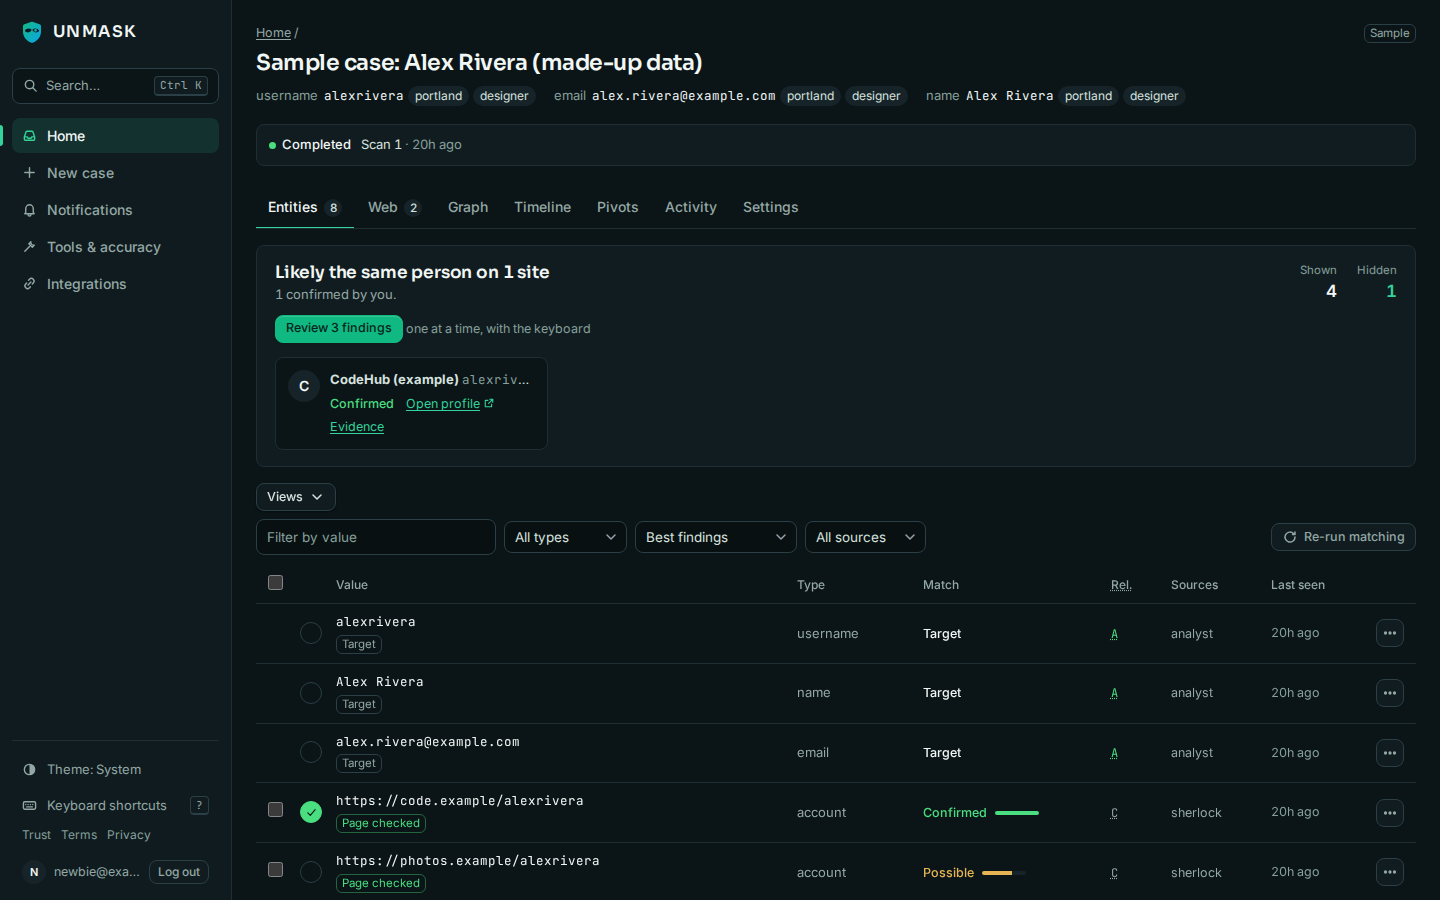
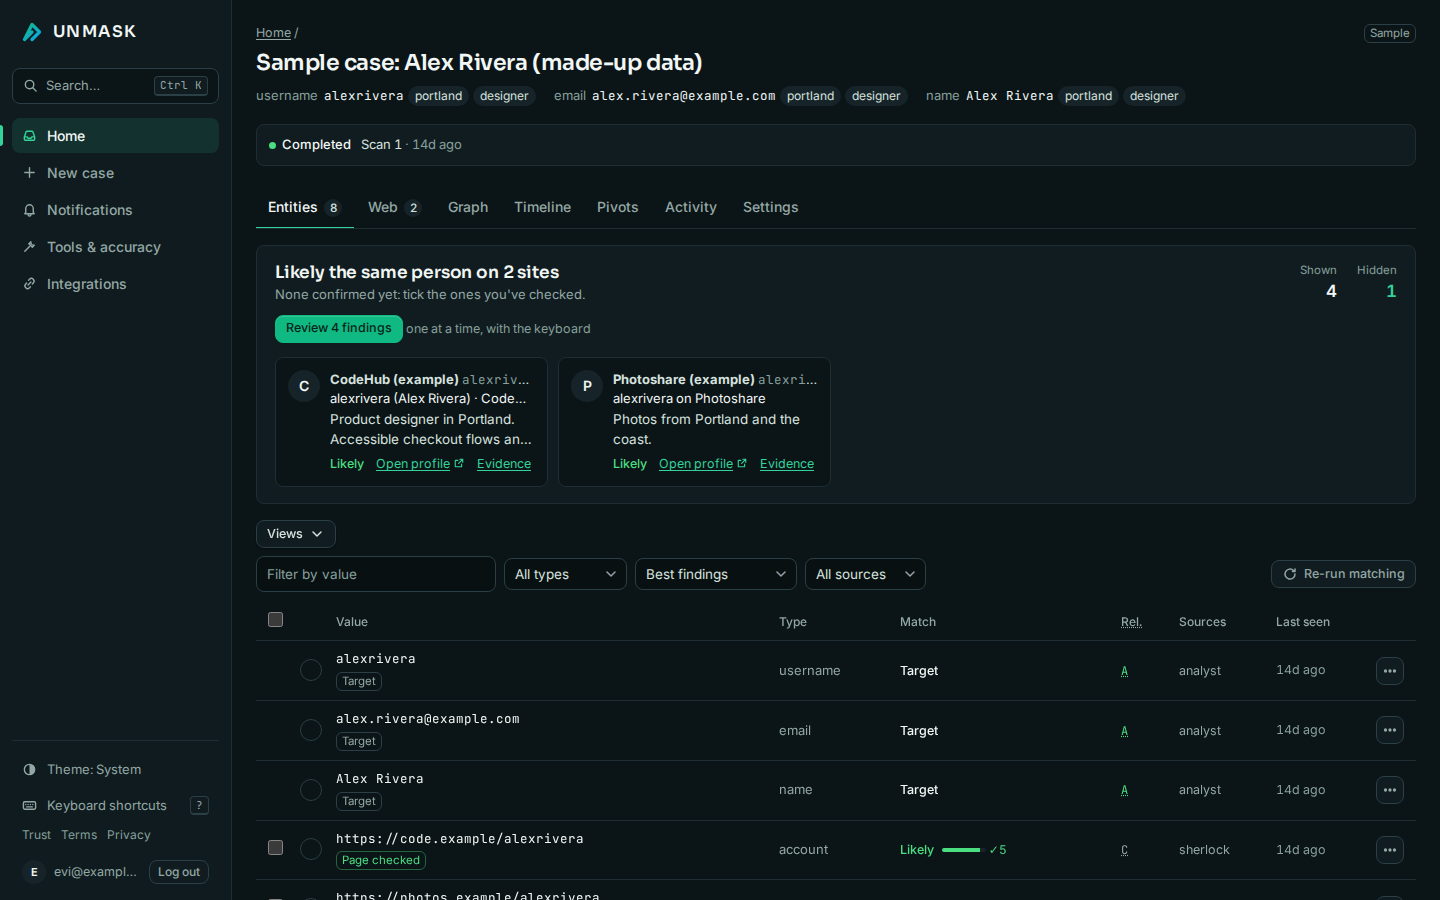
New mark: UNMASK typed as a keypad unlock pattern
U-N-M-A-S-K on a phone keypad is 8-6-6-2-7-5. Joined in order (the repeated
6 dropped) it becomes one stroke that ends on the centre key: the name,
encoded the way an unlock pattern is, and a trace that ends at the find.

- ui.mark() and favicon.svg: one 4.4-unit round stroke on a 32-unit grid,
  currentColor or the emerald-to-sky gradient
- App icons and the link-preview image regenerated; landing screenshot
  refreshed so it shows the new mark
- docs/brand: mark.svg, mark-mono.svg and usage notes (construction,
  colours, clear space, don'ts)
- Landing: the amber demo label now meets 4.5:1 contrast

diff --git a/app/templates/components/ui.html b/app/templates/components/ui.html
@@ -1,10 +1,11 @@
 {# Shared UI components. Import with: {% import "components/ui.html" as ui %} #}
 
-{# The UNMASK mark: a shield with mask eye cut-outs, the right eye seeing. Pass gid for the gradient version. #}
+{# The UNMASK mark: U-N-M-A-S-K typed on a phone keypad (8-6-6-2-7-5), drawn as one unlock-pattern stroke
+   ending on the centre key. Pass gid for the gradient version. #}
 {% macro mark(cls="mark", gid=none) -%}
 <svg class="{{ cls }}" viewBox="0 0 32 32" aria-hidden="true" focusable="false">
-{%- if gid %}<defs><linearGradient id="{{ gid }}" x1="0" y1="0" x2="1" y2="1"><stop offset="0" stop-color="#10B981"/><stop offset="1" stop-color="#0EA5E9"/></linearGradient></defs>{% endif -%}
-<path fill="{{ 'url(#' ~ gid ~ ')' if gid else 'currentColor' }}" fill-rule="evenodd" d="M16 2.2c.5 0 1 .1 1.5.3l8.6 3.3c1.1.4 1.9 1.5 1.9 2.7v6.8c0 7.1-4.6 12.6-11.1 14.9-.6.2-1.2.2-1.8 0C8.6 27.9 4 22.4 4 15.3V8.5c0-1.2.8-2.3 1.9-2.7l8.6-3.3c.5-.2 1-.3 1.5-.3zM6.4 14.3c1.9-3.4 6.4-4.1 9.2-1.4-1.7 4-6.7 5-9.2 1.4zm19.2 0c-1.9-3.4-6.4-4.1-9.2-1.4 1.7 4 6.7 5 9.2 1.4z"/><circle fill="{{ 'url(#' ~ gid ~ ')' if gid else 'currentColor' }}" cx="20.7" cy="13.9" r="1.75"/></svg>
+{%- if gid %}<defs><linearGradient id="{{ gid }}" gradientUnits="userSpaceOnUse" x1="6" y1="6" x2="26" y2="26"><stop offset="0" stop-color="#10B981"/><stop offset="1" stop-color="#0EA5E9"/></linearGradient></defs>{% endif -%}
+<path d="M16 26 26 16 16 6 6 26 16 16" fill="none" stroke="{{ 'url(#' ~ gid ~ ')' if gid else 'currentColor' }}" stroke-width="4.4" stroke-linecap="round" stroke-linejoin="round"/></svg>
 {%- endmacro %}
 
 {# Mark and wordmark together; descriptor=True adds the descriptor line under the name. #}

diff --git a/app/static/css/landing.css b/app/static/css/landing.css
@@ -72,7 +72,7 @@
 .l-demo-row strong { color: var(--text-strong); font-weight: 600; }
 .l-demo-row span:last-child { color: var(--muted); }
 .l-demo-row.warn { background: color-mix(in srgb, var(--warn) 9%, transparent); }
-.l-demo-row.warn span:last-child { color: var(--warn); }
+.l-demo-row.warn span:last-child { color: color-mix(in srgb, var(--warn) 82%, var(--text-strong)); }
 .l-dot { width: 9px; height: 9px; border-radius: 50%; background: var(--ok); }
 .l-dot.warn { background: var(--warn); }
 

diff --git a/docs/brand/README.md b/docs/brand/README.md
@@ -1,0 +1,39 @@
+# UNMASK mark
+
+## The idea
+Type **U-N-M-A-S-K** on a phone keypad: U=8, N=6, M=6, A=2, S=7, K=5. Join the keys in that order, the way an
+unlock pattern is drawn, and drop the repeated 6. The result is one stroke, 8 → 6 → 2 → 7 → 5, that ends on the
+centre key.
+
+The mark is the name, encoded. It's the kind of trace an investigator reads: a path through known points that
+ends at the answer. Because the shape comes from the name and not from a stock shape, nobody else will arrive at it.
+
+Keys used, on the 3×3 keypad grid:
+
+| | | |
+|---|---|---|
+| 1 | **2** ← A | 3 |
+| 4 | **5** ← K, the end | **6** ← N, M |
+| **7** ← S | **8** ← U, the start | 9 |
+
+## Construction
+- 32-unit grid, keys at 6 / 16 / 26.
+- Path `M16 26 L26 16 L16 6 L6 26 L16 16`, stroke 4.4, round caps and joins, no fill.
+- Gradient version: linear, `#10B981` → `#0EA5E9`, top-left to bottom-right (`x1=6 y1=6 x2=26 y2=26`, user space).
+- Single colour: emerald `#047857` on light, `#34D399` or `#F1F7F5` on dark, `#0B1417` for print.
+
+## Files
+| File | Use |
+|---|---|
+| `mark.svg` | gradient mark, any size |
+| `mark-mono.svg` | single colour (change the stroke colour) |
+| `app/static/img/favicon.svg` | browser tab |
+| `app/static/img/icon-192.png`, `icon-512.png`, `apple-touch-icon.png` | app icons: mark at 66% on `#0B1417` (safe for maskable crops) |
+| `app/static/img/og-image.png` | link previews, 1200×630 |
+| `ui.mark()` in `app/templates/components/ui.html` | in the app (`currentColor`, or pass `gid` for the gradient) |
+
+## Usage
+- Clear space: at least a quarter of the mark's width on every side.
+- Lockup: mark, then **UNMASK** in Sora 600 with 0.06em tracking. The mark is about 1.4× the cap height.
+- Don't: rotate or mirror it (the path order is the name), add the keypad dots, outline it, put it in a
+  shield or circle, change the stroke weight, or set it on a busy photo.
